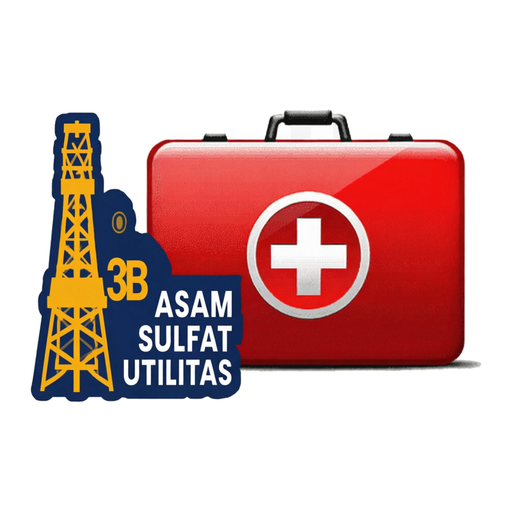
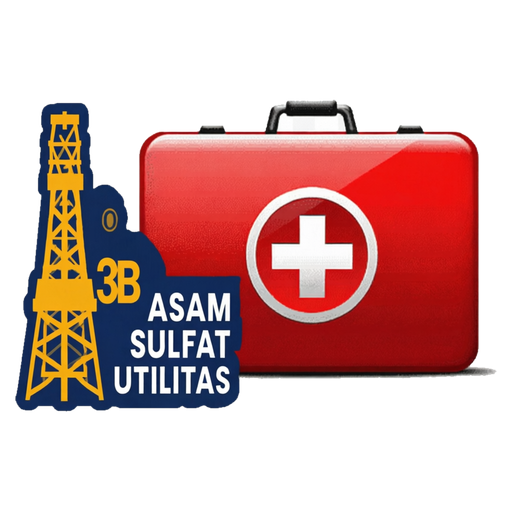
Ikon aplikasi berlatar transparan
- icon-192/512, favicon-32, logo.png transparan (tepi dihaluskan, tanpa sisa latar)
- apple-touch-icon & maskable tetap berlatar putih (iOS mengisi transparan dengan hitam;
  ikon adaptif Android wajib berlatar penuh)
- pasang.html: ikon tanpa kotak latar; service worker v14

Claude-Session: https://claude.ai/code/session_01JMjrSkCQgrKCpvZ28iQx8s

Changed region(s): [[0.0312, 0.1875, 0.9688, 0.8125]]

diff --git a/pasang.html b/pasang.html
@@ -28,7 +28,7 @@
   .k { font-family: "Barlow Condensed", system-ui, sans-serif; font-weight: 600; text-transform: uppercase; letter-spacing: .14em; }
   main { max-width: 460px; margin: 0 auto; padding: max(28px, env(safe-area-inset-top)) 16px 40px; display: flex; flex-direction: column; gap: 16px; }
   .hero { display: flex; gap: 16px; align-items: center; }
-  .hero img { width: 84px; height: 84px; border-radius: 20px; flex: none; box-shadow: 0 8px 24px rgba(0,0,0,.45); background: #f4f0e6; }
+  .hero img { width: 96px; height: 96px; flex: none; object-fit: contain; filter: drop-shadow(0 6px 14px rgba(0,0,0,.45)); }
   .hero h1 { font: 700 30px/1.02 "Barlow Condensed", system-ui, sans-serif; letter-spacing: .02em; text-transform: uppercase; }
   .hero p { color: var(--mut); font-size: 13px; margin-top: 4px; }
   .eyebrow { font-size: 10.5px; color: var(--gold); }

diff --git a/sw.js b/sw.js
@@ -1,7 +1,7 @@
 /* FirstAid SASU3B — service worker
    App shell cache-first, data Google Sheets network-first dengan fallback cache
    supaya aplikasi tetap terbaca di area plant tanpa sinyal. */
-const SHELL = 'fa-sasu3b-shell-v13';
+const SHELL = 'fa-sasu3b-shell-v14';
 const DATA = 'fa-sasu3b-data-v6';
 const SHELL_FILES = [
   './', './index.html', './pasang.html', './manifest.webmanifest', './config.js', './pdfdoc.js',
